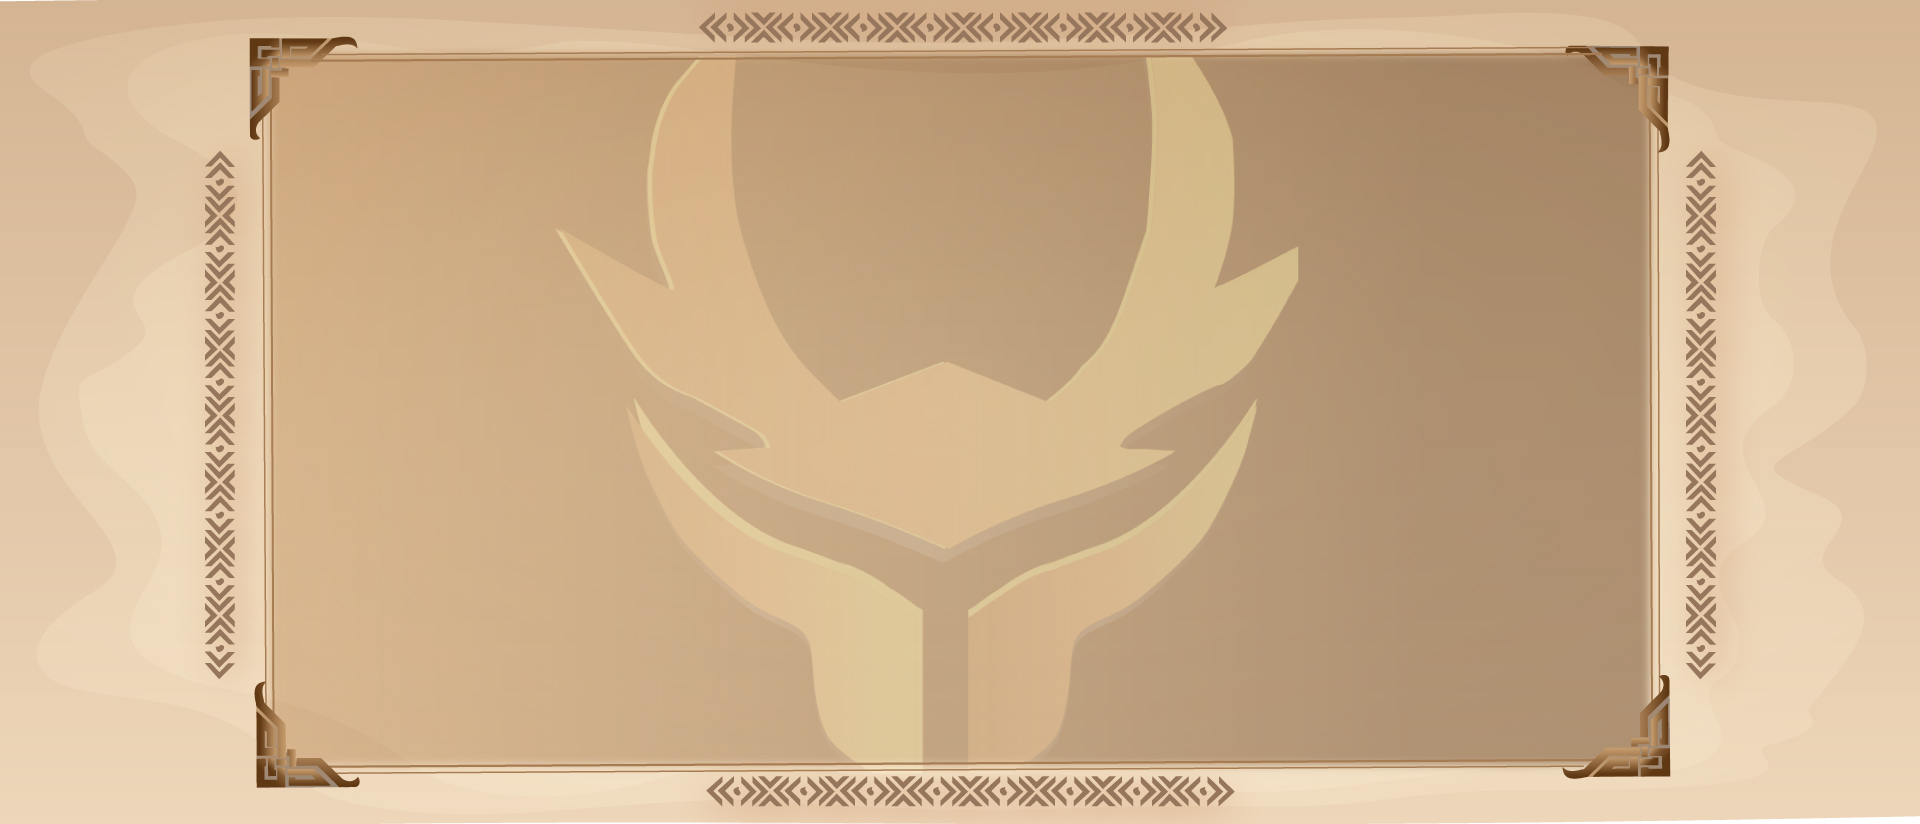
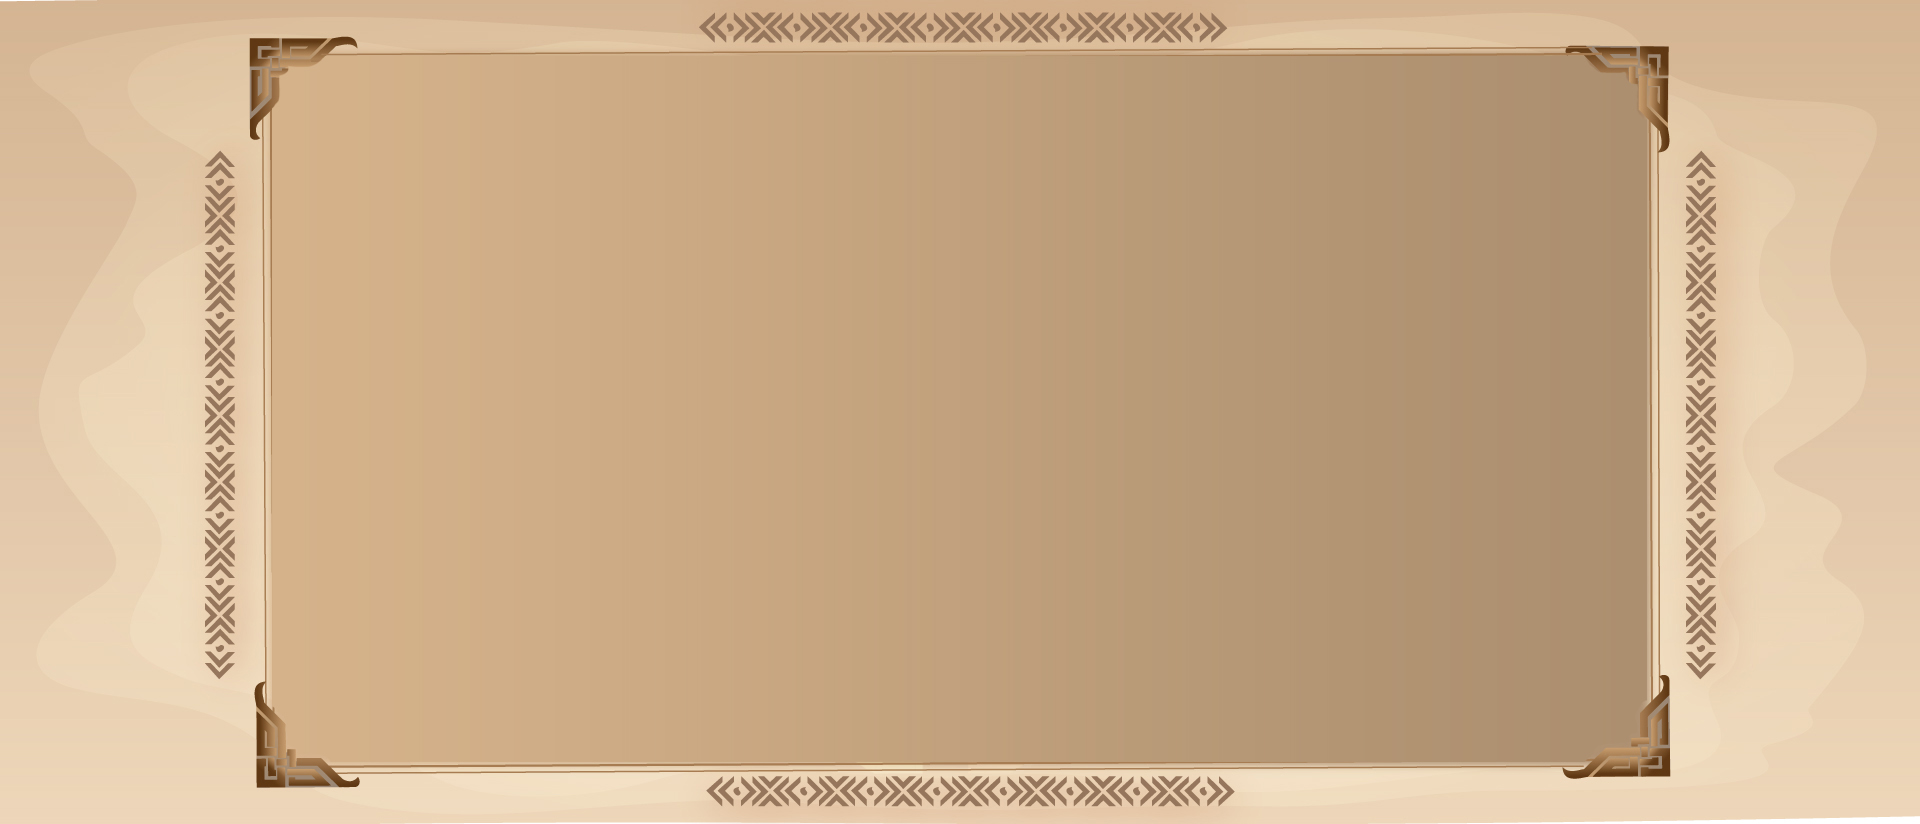
Updated UI 12/2/2022
Updates history background image
Shortens the Story Behind
Added Whitepaper and Pitch Deck button on hero card

diff --git a/index.html b/index.html
@@ -388,13 +388,9 @@ WARN MESSAGE
 }
   </style>
 
-  <!-- other head stuff for flickity... -->
-  <link rel="stylesheet" href="/assets/css/flickity.css" media="screen">
 </head>
 
 <body>
-  <!-- flickity... -->
-  <script src="/assets/js/flickity.pkgd.min.js"></script>
 
    <!-- ======= WARNING ======= -->
   <!-- ======= Header ======= -->
@@ -438,7 +434,6 @@ WARN MESSAGE
       <a class="hero-btn" href="https://heroesuprising.com/docs/HeroesUprising.pdf" aria-label="Contact us">Pitch Deck</a>
       </div>
       </div>
-      <!-- <a href="maintenance.html" class="btn-get-started scrollto">Play Now</a> -->
     </div>
   </section><!-- End Hero -->
 
@@ -490,25 +485,13 @@ WARN MESSAGE
         <div class="row content">
           <div class="col-lg-6" align="center" data-aos="fade-right" data-aos-delay="100">
             <img src="assets/img/hero/about-thumb.png" style="width:100%;height:auto;padding-top: 20px;" alt=""/>
-            <!-- <h2>Eum ipsam laborum deleniti velitena</h2>
-            <h3>Voluptatem dignissimos provident quasi corporis voluptates sit assum perenda sruen jonee trave</h3> -->
           </div>
           <div class="col-lg-6 pt-4 pt-lg-0" align="center" data-aos="fade-left" data-aos-delay="200">
             <br>
             <h3 style="padding-left: 10px;padding-right: 10px;color: #603a13;font-family: var(--title-font)">The Story Behind</h3>
             <h2 style="color: #603a13 ;font-family: var(--title-font);padding-left: 10px;padding-right: 10px;font-size: 42px;">HEROES UPRISING</h2>
-            <p class="fst-italic" style="text-align: justify;color: #603a13;font-family: var(--title-font);padding-left: 40px;padding-right: 40px;padding-bottom: 50px;font-weight: 600;">The Land of Mydoslyne is the land of Honor, Fame, and Glory. Owned and ruled by its people, where they live by the virtues of Courage, Pride and Liberality. Known for its events, stories, and memories throughout the years. <br>
-              There are different tribes in every elemental region. The Flames of Phoenetra Tribe, The Waves of Seagandia Tribe, The Great Stone of Yagamuth Tribe, The Breeze of Kuzityre Tribe, The Beam of Arkansun Tribe, and The Depth Void Tribe. Although Monsters are present in the Land of Mydoslyne, the tribes go for the hunt, to provide for their needs and to keep the land safe from the evils of the depth.There are Heroes that represent their tribe, these heroes are the ones that fight alongside others for the safety of their land.The tribes forge their own weapons to battle.Weapons that aid them in their battles, to use it against the forces that ravage their land, , as well as for their game of fame through the battles they do. There's more to the eye than just slaying monsters, each tribe chooses their representatives for what we call an arena fight, each tribe participates in an arena fight to prove who is the best fighter there is, in a team of 3, these warriors fight fearlessly together to defeat the opposing team.To earn medallions, trophies and to show who has more power in the Land of Mydoslyne. Nothing else feels great than being called the best warriors of the Land of Mydoslyne, to be acknowledged as the fiercest, bravest, and smartest. To earn riches, glory, fame and to earn the right to be called the greatest hero in the land of Mydoslyne.</p>
-            <!-- <h3>Voluptatem dignissimos provident quasi corporis voluptates sit assum perenda sruen jonee trave</h3> -->
-            <!-- <ul>
-              <li><i class="ri-check-double-line"></i> Ullamco laboris nisi ut aliquip ex ea commodo consequa</li>
-              <li><i class="ri-check-double-line"></i> Duis aute irure dolor in reprehenderit in voluptate velit</li>
-              <li><i class="ri-check-double-line"></i> Ullamco laboris nisi ut aliquip ex ea commodo consequat. Duis aute irure dolor in reprehenderit in</li>
-            </ul> -->
-            <!-- <p class="fst-italic">
-              Lorem ipsum dolor sit amet, consectetur adipiscing elit, sed do eiusmod tempor incididunt ut labore et dolore
-              magna aliqua.
-            </p> -->
+            <p class="fst-italic" style="text-align: justify;color: #603a13;font-family: var(--title-font);padding-left: 40px;padding-right: 40px;padding-bottom: 50px;font-weight: 600; font-size: 20px;">The Land of Honor, Fame and Glory. Mydoslene with its six surrounding elemental tribes. Monsters are indeed present in the land of Mydoslene, Where heroes go in and out to fight these battles. Each tribe has their representative heroes. To forge weapons of fight and support, which aids them in battle. Theres more than just beating monsters and saving the land from chaos, there will also be battles for sport. To be acknowledged as the strongest heroes of their tribe. Earn shining medallions to show who's the best fighter there is in the land of Mydoslene. So come now and let's delve deeper into the land Mydoslene.</p>
+
           </div>
         </div>
 
@@ -536,28 +519,24 @@ WARN MESSAGE
                     <div class="mt-3 mt-xl-0" align="center">
                       <div align="center"><img src="assets/img/mechanics/quest.png" style="width: 280px;height:auto;" alt=""/></div><br>
                       <div align="center" style="height:80px;width: 300px;"><h3><a href="https://docs.heroesuprising.com/game-features/weekly-dungeon-quest" class="text-inherit" aria-label="Completing..">Completing the Weekly Dungeon Quest</a></h3></div>
-                      <!-- <p>Consequuntur sunt aut quasi enim aliquam quae harum pariatur laboris nisi ut aliquip</p> -->
                     </div>
                   </div>
                   <div class="col-xl-3 col-sm-12 col-md-6 d-flex align-items-center" data-aos="zoom-in" data-aos-delay="100">
                     <div class="mt-3 mt-xl-0" align="center">
                       <div align="center"><img src="assets/img/mechanics/raid.png" style="width: 280px;height:auto;" alt=""/></div><br>
                       <div align="center" style="height:80px;width: 300px;"><h3><a href="https://docs.heroesuprising.com/game-features/guild-system" class="text-inherit" aria-label="Guild Expedition...">Guild Expedition and Dungeons</a></h3></div>
-                      <!-- <p>Consequuntur sunt aut quasi enim aliquam quae harum pariatur laboris nisi ut aliquip</p> -->
                     </div>
                   </div>
                   <div class="col-xl-3 col-sm-12 col-md-6 d-flex align-items-center" data-aos="zoom-in" data-aos-delay="100">
                     <div class="mt-3 mt-xl-0" align="center">
                       <div align="center"><img src="assets/img/mechanics/arena.png" style="width: 280px;height:auto;" alt=""/></div><br>
                       <div align="center" style="height:80px;width: 300px;"><h3><a href="https://docs.heroesuprising.com/game-features/arena-battle-royale" class="text-inherit" aria-label="Competing...">Competing in the Arena</a></h3></div>
-                      <!-- <p>Consequuntur sunt aut quasi enim aliquam quae harum pariatur laboris nisi ut aliquip</p> -->
                     </div>
                   </div>
                   <div class="col-xl-3 col-sm-12 col-md-6 d-flex align-items-center" data-aos="zoom-in" data-aos-delay="100">
                     <div class="mt-3 mt-xl-0" align="center">
                       <div align="center"><img src="assets/img/mechanics/leaderboards.png" style="width: 280px;height:auto;" alt=""/></div><br>
                       <div align="center" style="height:80px;width: 300px;"><h3><a href="https://docs.heroesuprising.com/game-features/arena-battle-royale" class="text-inherit" aria-label="Climbing...">Climbing up the Arena Leaderboards</a></h3></div>
-                      <!-- <p>Consequuntur sunt aut quasi enim aliquam quae harum pariatur laboris nisi ut aliquip</p> -->
                     </div>
                   </div>
                 </div>
@@ -934,8 +913,8 @@ WARN MESSAGE
                     <span>Co-Founder | CGO</span>
 
                     <div class="social">
-                      <a href="" aria-label=""><i class="ri-twitter-fill"></i></a>
-                      <a href="" aria-label=""><i class="ri-linkedin-box-fill"></i></a>
+                      <a href="https://twitter.com/clintmod111" aria-label=""><i class="ri-twitter-fill"></i></a>
+                      <a href="https://www.linkedin.com/in/clint-ryan-jao-ryjin111" aria-label=""><i class="ri-linkedin-box-fill"></i></a>
 
                     </div>
                   </div>
